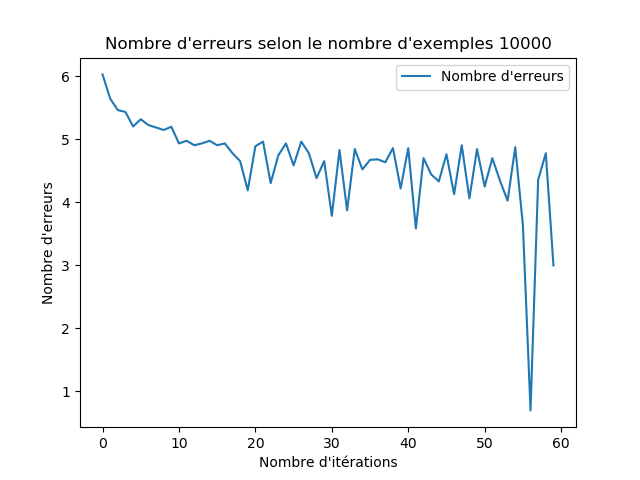
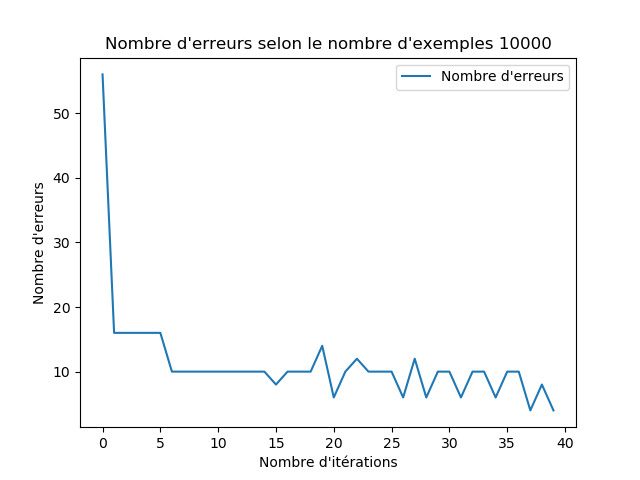
Réparation d'erreurs ...

diff --git a/lib/Stats.cpp b/lib/Stats.cpp
@@ -11,8 +11,8 @@ namespace plt = matplotlibcpp;
 
 void Stats::getPlotErrorByItr(std::vector<std::pair<std::pair<double, double>, int>>& data_train) {
     std::cout << "[INFO] Generation du plot 'ErrorByIteration'" << std::endl;
-    std::vector<double> err = std::vector<double>();
-    std::vector<double> iteration = std::vector<double>();
+    std::vector<int> err = std::vector<int>();
+    std::vector<int> iteration = std::vector<int>();
 
     /**
      * On entraine notre algorithme
@@ -23,13 +23,12 @@ void Stats::getPlotErrorByItr(std::vector<std::pair<std::pair<double, double>, i
 
     std::vector<int> err_train = neurone.train(data_train, 100);
 
-    for(int i =0;i<100;i++) {
-        err.push_back(std::log(err_train[i]));
+    for(int i =0;i<err_train.size();i++) {
         iteration.push_back(i);
     }
 
     std::map<std::string, std::string> keywords = {{"label", "Nombre d'erreurs"}};
-    plt::plot(iteration, err, keywords);
+    plt::plot(iteration, err_train, keywords);
     plt::title("Nombre d'erreur selon l'itération ("+std::to_string(data_train.size())+" exemples)");
     plt::xlabel("Nombre d'itérations");
     plt::ylabel("Nombre d'erreurs");
@@ -46,8 +45,8 @@ void Stats::getPlotErrorByExemple(int max_exemple) {
     for(int i=0;i<=max_exemple;i++){
         std::cout << "[INFO] Generation du plot 'ErrorByExemple'" << std::endl;
         int nb_ex = std::pow(10,i);
-        std::vector<double> err = std::vector<double>();
-        std::vector<double> iteration = std::vector<double>();
+        std::vector<int> err = std::vector<int>();
+        std::vector<int> iteration = std::vector<int>();
 
         std::vector<std::pair<std::pair<double, double>, int>> data_train = Helper::gen_data(nb_ex);
         /**
@@ -59,14 +58,13 @@ void Stats::getPlotErrorByExemple(int max_exemple) {
         std::vector<int> err_train = neurone.train(data_train, 100);
 
         for(int j =0;j<err_train.size();j++) {
-            err.push_back(std::log(err_train[j]));
             iteration.push_back(j);
         }
 
         plt::figure();
         plt::clf();
         std::map<std::string, std::string> keywords = {{"label", "Nombre d'erreurs"}};
-        plt::plot(iteration, err, keywords);
+        plt::plot(iteration, err_train, keywords);
         plt::title("Nombre d'erreurs selon le nombre d'exemples "+std::to_string(nb_ex));
         plt::xlabel("Nombre d'itérations");
         plt::ylabel("Nombre d'erreurs");

diff --git a/main.cpp b/main.cpp
@@ -22,9 +22,9 @@ int main(int argc, char *argv[]) {
      * Affichage des erreurs selon le nombre d'itérations
      */
 
-    Stats::getPlotErrorByItr(data_train);
+    //Stats::getPlotErrorByItr(data_train);
     Stats::getPlotErrorByExemple(6);
-    Stats::getPlorErrorByLearningStep(6);
+//    Stats::getPlorErrorByLearningStep(6);
 
 
     return 0;

diff --git a/README.md b/README.md
@@ -19,16 +19,19 @@ Plus le nombre itération est grand plus le nombre d'erreurs est faible
 
 ### Question 3.2
 
-On remarque que le nombre d'erreurs tends vers 0, toutefois une certaine liaison 
-entre le nombre d'erreurs et le nombre d'exemples existe, c'est-à-dire que plus il y aura d'exemples, plus il y aura d'erreurs.
+On remarque sur ces deux graphes que plus un jeu de données et important, plus le nombre d'itérations avant de ne plus faire d'erreurs sera important
 
 ![](answers/errorbyexemple_10.png)
-> Peu d'erreurs (10 exemples)
+> Plus d'erreurs à partir de la 37ème itération
 
-![](answers/errorbyexemple_1000000.png)
-> beaucoup plus d'erreurs (1000000 exemples)
+![](answers/errorbyexemple_10000.png)
+> Plus d'erreurs à partir de la 39ème itération
 
 ## Question 3.3
+
+Le pas influe sur le nombre d'itérations nécessaire pour ne plus avoir d'erreurs, un pas d'apprentissage se rapprochant de un fera une descente plus radical, elle convient donc un petit nombre d'exemples.
+Si on utilise un pas d'apprentissage petit, la descente est moins brutale, et on risque moins oublié des valeurs minimales.
+C'est pour cela que l'on utilisera un pas de plus en plus petit au fur et à mesure que notre jeu de données grandit (e.g 5 millions)
 
 On remarque que si le nombre d'exemples est petit et que le pas d'apprentissage est petit aussi, alors le nombre d'erreurs est grand.
 ![](answers/errorbylearning_step_100.png)
@@ -37,4 +40,4 @@ On remarque que si le nombre d'exemples est petit et que le pas d'apprentissage 
 
 Tandis que si l'on a un nombre d'exemples élevés (e.g 1 millions), et un pas d'apprentissage petit, on minimise alors le nombre d'erreurs.
 ![](answers/errorbylearning_step_100000.png)
-> On remarque à contrario, que la courbe violette va minimiser le nombre d'erreurs
+> On remarque à contrario, que la courbe violette va minimiser le nombre d'erreurs, elle va d'ailleurs ne plus faire d'erreurs à partir de la ~19 itérations
